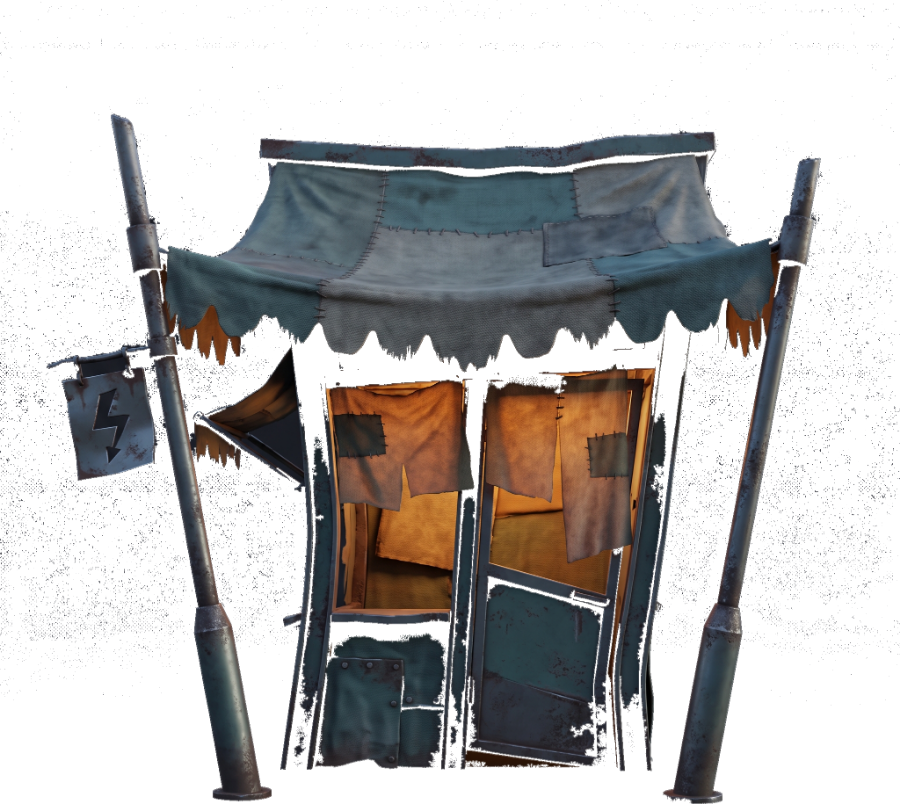
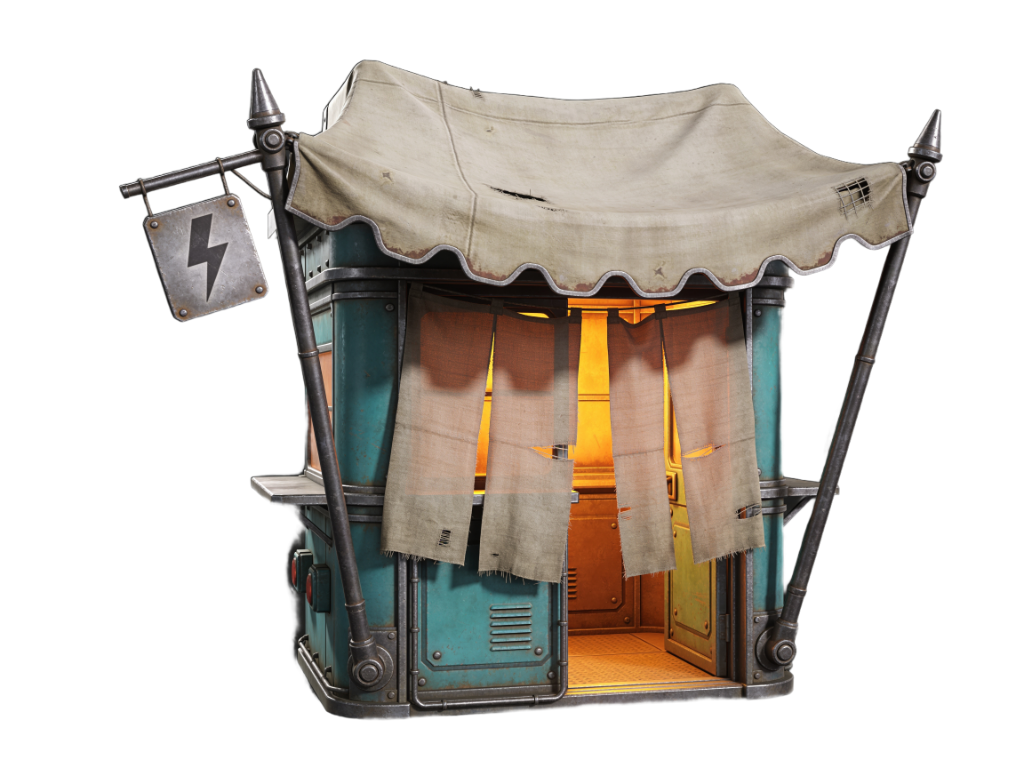
§2g: Ratchet wakes up powered down, and the booth gets the better plate
Two of the three §2g plates change hands. The third stays where it is, and
that is the more useful half of this commit.

RATCHETRESTING — the refused plate, re-fired properly. v1 failed because it
was generated from prose alone: "a boxy vendor robot" describes a robot, not
OUR robot, and what came back was a generic grey humanoid with POWERED DOWN
printed across the frame. The fix is the one the identity lock already
teaches — attach the character. His own row out of assets/characters/
npc_6yaw.png, upscaled and exposure-lifted so a model can actually see it,
goes in as reference media, and the figure that comes back is recognisably
the same vendor unit: the pot belly, the bone-and-tan plating, the strapped
canister rig over the shoulders, wide boots. Slumped, eye-lights dark, the
chest crystal the only light in the picture — his backstory made visible,
which is what the brief was for.

BOOTHFRONT — replaced at the same path, per the owner's quality ruling. Not
a duplicate: the re-fire beats the wired plate on material, on the canopy's
sag and hem, and on the read into the lit interior. Same filename, so
nothing needs re-plumbing.

DENINTERIOR — the code session's plate STANDS, and the art session's
competing fire is deliberately not shipped. It is the prettier picture and
the worse room: its foreground bench fills the lower right, exactly where
the player walks, while the wired plate keeps open floor across the middle.
[…]

diff --git a/index.html b/index.html
@@ -225,7 +225,7 @@
 })();
 </script>
 
-<script>window.BUILD_ID="msvinek6";window.GAME_LOCK="robo";window.MUS_FILES={"ambient_observing_the_star":"assets/music/ambient_observing_the_star.ogg","epic_combat":"assets/music/epic_combat.ogg","mus_alpha":"assets/music/mus_alpha.m4a","mus_alphatame":"assets/music/mus_alphatame.m4a","mus_archives":"assets/music/mus_archives.m4a","mus_boss":"assets/music/mus_boss.m4a","mus_cache":"assets/music/mus_cache.m4a","mus_conduits":"assets/music/mus_conduits.m4a","mus_ending":"assets/music/mus_ending.m4a","mus_eye":"assets/music/mus_eye.m4a","mus_foundry":"assets/music/mus_foundry.m4a","mus_furnace":"assets/music/mus_furnace.m4a","mus_glaciere":"assets/music/mus_glaciere.m4a","mus_intro":"assets/music/mus_intro.m4a","mus_meadows":"assets/music/mus_meadows.m4a","mus_mother":"assets/music/mus_mother.m4a","mus_nest":"assets/music/mus_nest.m4a","mus_nullfang":"assets/music/mus_nullfang.m4a","mus_prism":"assets/music/mus_prism.m4a","mus_talonhost":"assets/music/mus_talonhost.m4a","mus_title":"assets/music/mus_title.m4a"};window.VID_FILES={"end_atlas":"assets/video/end_atlas.mp4","end_brood":"assets/video/end_brood.mp4","end_close":"assets/video/end_close.mp4","end_folk":"assets/video/end_folk.mp4","end_glitch":"assets/video/end_glitch.mp4","end_mother":"assets/video/end_mother.mp4","end_open":"assets/video/end_open.mp4","end_prism":"assets/video/end_prism.mp4","end_zero":"assets/video/end_zero.mp4","intro1":"assets/video/intro1.mp4","intro2":"assets/video/intro2.mp4","intro3":"assets/video/intro3.mp4","intro4":"assets/video/intro4.mp4","intro5":"assets/video/intro5.mp4","intro6":"assets/video/intro6.mp4","intro7":"assets/video/intro7.mp4","intro8":"assets/video/intro8.mp4","purify_atlas":"assets/video/purify_atlas.mp4","purify_brood":"assets/video/purify_brood.mp4","purify_glitch":"assets/video/purify_glitch.mp4","purify_prism":"assets/video/purify_prism.mp4","purify_zero":"assets/video/purify_zero.mp4","sword_gift":"assets/video/sword_gift.mp4"};window.VID_ALT={"end_atlas":"assets/video/end_atlas.webm","end_brood":"assets/video/end_brood.webm","end_close":"assets/video/end_close.webm","end_folk":"assets/video/end_folk.webm","end_glitch":"assets/video/end_glitch.webm","end_mother":"assets/video/end_mother.webm","end_open":"assets/video/end_open.webm","end_prism":"assets/video/end_prism.webm","end_zero":"assets/video/end_zero.webm","intro1":"assets/video/intro1.webm","intro2":"assets/video/intro2.webm","intro3":"assets/video/intro3.webm","intro4":"assets/video/intro4.webm","intro5":"assets/video/intro5.webm","intro6":"assets/video/intro6.webm","intro7":"assets/video/intro7.webm","intro8":"assets/video/intro8.webm","purify_atlas":"assets/video/purify_atlas.webm","purify_brood":"assets/video/purify_brood.webm","purify_glitch":"assets/video/purify_glitch.webm","purify_prism":"assets/video/purify_prism.webm","purify_zero":"assets/video/purify_zero.webm","sword_gift":"assets/video/sword_gift.webm"};window.VID_LIGHT={
+<script>window.BUILD_ID="msvj8n6l";window.GAME_LOCK="robo";window.MUS_FILES={"ambient_observing_the_star":"assets/music/ambient_observing_the_star.ogg","epic_combat":"assets/music/epic_combat.ogg","mus_alpha":"assets/music/mus_alpha.m4a","mus_alphatame":"assets/music/mus_alphatame.m4a","mus_archives":"assets/music/mus_archives.m4a","mus_boss":"assets/music/mus_boss.m4a","mus_cache":"assets/music/mus_cache.m4a","mus_conduits":"assets/music/mus_conduits.m4a","mus_ending":"assets/music/mus_ending.m4a","mus_eye":"assets/music/mus_eye.m4a","mus_foundry":"assets/music/mus_foundry.m4a","mus_furnace":"assets/music/mus_furnace.m4a","mus_glaciere":"assets/music/mus_glaciere.m4a","mus_intro":"assets/music/mus_intro.m4a","mus_meadows":"assets/music/mus_meadows.m4a","mus_mother":"assets/music/mus_mother.m4a","mus_nest":"assets/music/mus_nest.m4a","mus_nullfang":"assets/music/mus_nullfang.m4a","mus_prism":"assets/music/mus_prism.m4a","mus_talonhost":"assets/music/mus_talonhost.m4a","mus_title":"assets/music/mus_title.m4a"};window.VID_FILES={"end_atlas":"assets/video/end_atlas.mp4","end_brood":"assets/video/end_brood.mp4","end_close":"assets/video/end_close.mp4","end_folk":"assets/video/end_folk.mp4","end_glitch":"assets/video/end_glitch.mp4","end_mother":"assets/video/end_mother.mp4","end_open":"assets/video/end_open.mp4","end_prism":"assets/video/end_prism.mp4","end_zero":"assets/video/end_zero.mp4","intro1":"assets/video/intro1.mp4","intro2":"assets/video/intro2.mp4","intro3":"assets/video/intro3.mp4","intro4":"assets/video/intro4.mp4","intro5":"assets/video/intro5.mp4","intro6":"assets/video/intro6.mp4","intro7":"assets/video/intro7.mp4","intro8":"assets/video/intro8.mp4","purify_atlas":"assets/video/purify_atlas.mp4","purify_brood":"assets/video/purify_brood.mp4","purify_glitch":"assets/video/purify_glitch.mp4","purify_prism":"assets/video/purify_prism.mp4","purify_zero":"assets/video/purify_zero.mp4","sword_gift":"assets/video/sword_gift.mp4"};window.VID_ALT={"end_atlas":"assets/video/end_atlas.webm","end_brood":"assets/video/end_brood.webm","end_close":"assets/video/end_close.webm","end_folk":"assets/video/end_folk.webm","end_glitch":"assets/video/end_glitch.webm","end_mother":"assets/video/end_mother.webm","end_open":"assets/video/end_open.webm","end_prism":"assets/video/end_prism.webm","end_zero":"assets/video/end_zero.webm","intro1":"assets/video/intro1.webm","intro2":"assets/video/intro2.webm","intro3":"assets/video/intro3.webm","intro4":"assets/video/intro4.webm","intro5":"assets/video/intro5.webm","intro6":"assets/video/intro6.webm","intro7":"assets/video/intro7.webm","intro8":"assets/video/intro8.webm","purify_atlas":"assets/video/purify_atlas.webm","purify_brood":"assets/video/purify_brood.webm","purify_glitch":"assets/video/purify_glitch.webm","purify_prism":"assets/video/purify_prism.webm","purify_zero":"assets/video/purify_zero.webm","sword_gift":"assets/video/sword_gift.webm"};window.VID_LIGHT={
  "end_atlas": "assets/video/light/end_atlas.mp4",
  "end_brood": "assets/video/light/end_brood.mp4",
  "end_close": "assets/video/light/end_close.mp4",

diff --git a/odyssey.html b/odyssey.html
@@ -225,7 +225,7 @@
 })();
 </script>
 
-<script>window.BUILD_ID="msvinek6";window.GAME_LOCK="hero";window.MUS_FILES={"ambient_observing_the_star":"assets/music/ambient_observing_the_star.ogg","epic_combat":"assets/music/epic_combat.ogg","mus_alpha":"assets/music/mus_alpha.m4a","mus_alphatame":"assets/music/mus_alphatame.m4a","mus_archives":"assets/music/mus_archives.m4a","mus_boss":"assets/music/mus_boss.m4a","mus_cache":"assets/music/mus_cache.m4a","mus_conduits":"assets/music/mus_conduits.m4a","mus_ending":"assets/music/mus_ending.m4a","mus_eye":"assets/music/mus_eye.m4a","mus_foundry":"assets/music/mus_foundry.m4a","mus_furnace":"assets/music/mus_furnace.m4a","mus_glaciere":"assets/music/mus_glaciere.m4a","mus_intro":"assets/music/mus_intro.m4a","mus_meadows":"assets/music/mus_meadows.m4a","mus_mother":"assets/music/mus_mother.m4a","mus_nest":"assets/music/mus_nest.m4a","mus_nullfang":"assets/music/mus_nullfang.m4a","mus_prism":"assets/music/mus_prism.m4a","mus_talonhost":"assets/music/mus_talonhost.m4a","mus_title":"assets/music/mus_title.m4a"};window.VID_FILES={"end_atlas":"assets/video/end_atlas.mp4","end_brood":"assets/video/end_brood.mp4","end_close":"assets/video/end_close.mp4","end_folk":"assets/video/end_folk.mp4","end_glitch":"assets/video/end_glitch.mp4","end_mother":"assets/video/end_mother.mp4","end_open":"assets/video/end_open.mp4","end_prism":"assets/video/end_prism.mp4","end_zero":"assets/video/end_zero.mp4","intro1":"assets/video/intro1.mp4","intro2":"assets/video/intro2.mp4","intro3":"assets/video/intro3.mp4","intro4":"assets/video/intro4.mp4","intro5":"assets/video/intro5.mp4","intro6":"assets/video/intro6.mp4","intro7":"assets/video/intro7.mp4","intro8":"assets/video/intro8.mp4","purify_atlas":"assets/video/purify_atlas.mp4","purify_brood":"assets/video/purify_brood.mp4","purify_glitch":"assets/video/purify_glitch.mp4","purify_prism":"assets/video/purify_prism.mp4","purify_zero":"assets/video/purify_zero.mp4","sword_gift":"assets/video/sword_gift.mp4"};window.VID_ALT={"end_atlas":"assets/video/end_atlas.webm","end_brood":"assets/video/end_brood.webm","end_close":"assets/video/end_close.webm","end_folk":"assets/video/end_folk.webm","end_glitch":"assets/video/end_glitch.webm","end_mother":"assets/video/end_mother.webm","end_open":"assets/video/end_open.webm","end_prism":"assets/video/end_prism.webm","end_zero":"assets/video/end_zero.webm","intro1":"assets/video/intro1.webm","intro2":"assets/video/intro2.webm","intro3":"assets/video/intro3.webm","intro4":"assets/video/intro4.webm","intro5":"assets/video/intro5.webm","intro6":"assets/video/intro6.webm","intro7":"assets/video/intro7.webm","intro8":"assets/video/intro8.webm","purify_atlas":"assets/video/purify_atlas.webm","purify_brood":"assets/video/purify_brood.webm","purify_glitch":"assets/video/purify_glitch.webm","purify_prism":"assets/video/purify_prism.webm","purify_zero":"assets/video/purify_zero.webm","sword_gift":"assets/video/sword_gift.webm"};window.VID_LIGHT={
+<script>window.BUILD_ID="msvj8n6l";window.GAME_LOCK="hero";window.MUS_FILES={"ambient_observing_the_star":"assets/music/ambient_observing_the_star.ogg","epic_combat":"assets/music/epic_combat.ogg","mus_alpha":"assets/music/mus_alpha.m4a","mus_alphatame":"assets/music/mus_alphatame.m4a","mus_archives":"assets/music/mus_archives.m4a","mus_boss":"assets/music/mus_boss.m4a","mus_cache":"assets/music/mus_cache.m4a","mus_conduits":"assets/music/mus_conduits.m4a","mus_ending":"assets/music/mus_ending.m4a","mus_eye":"assets/music/mus_eye.m4a","mus_foundry":"assets/music/mus_foundry.m4a","mus_furnace":"assets/music/mus_furnace.m4a","mus_glaciere":"assets/music/mus_glaciere.m4a","mus_intro":"assets/music/mus_intro.m4a","mus_meadows":"assets/music/mus_meadows.m4a","mus_mother":"assets/music/mus_mother.m4a","mus_nest":"assets/music/mus_nest.m4a","mus_nullfang":"assets/music/mus_nullfang.m4a","mus_prism":"assets/music/mus_prism.m4a","mus_talonhost":"assets/music/mus_talonhost.m4a","mus_title":"assets/music/mus_title.m4a"};window.VID_FILES={"end_atlas":"assets/video/end_atlas.mp4","end_brood":"assets/video/end_brood.mp4","end_close":"assets/video/end_close.mp4","end_folk":"assets/video/end_folk.mp4","end_glitch":"assets/video/end_glitch.mp4","end_mother":"assets/video/end_mother.mp4","end_open":"assets/video/end_open.mp4","end_prism":"assets/video/end_prism.mp4","end_zero":"assets/video/end_zero.mp4","intro1":"assets/video/intro1.mp4","intro2":"assets/video/intro2.mp4","intro3":"assets/video/intro3.mp4","intro4":"assets/video/intro4.mp4","intro5":"assets/video/intro5.mp4","intro6":"assets/video/intro6.mp4","intro7":"assets/video/intro7.mp4","intro8":"assets/video/intro8.mp4","purify_atlas":"assets/video/purify_atlas.mp4","purify_brood":"assets/video/purify_brood.mp4","purify_glitch":"assets/video/purify_glitch.mp4","purify_prism":"assets/video/purify_prism.mp4","purify_zero":"assets/video/purify_zero.mp4","sword_gift":"assets/video/sword_gift.mp4"};window.VID_ALT={"end_atlas":"assets/video/end_atlas.webm","end_brood":"assets/video/end_brood.webm","end_close":"assets/video/end_close.webm","end_folk":"assets/video/end_folk.webm","end_glitch":"assets/video/end_glitch.webm","end_mother":"assets/video/end_mother.webm","end_open":"assets/video/end_open.webm","end_prism":"assets/video/end_prism.webm","end_zero":"assets/video/end_zero.webm","intro1":"assets/video/intro1.webm","intro2":"assets/video/intro2.webm","intro3":"assets/video/intro3.webm","intro4":"assets/video/intro4.webm","intro5":"assets/video/intro5.webm","intro6":"assets/video/intro6.webm","intro7":"assets/video/intro7.webm","intro8":"assets/video/intro8.webm","purify_atlas":"assets/video/purify_atlas.webm","purify_brood":"assets/video/purify_brood.webm","purify_glitch":"assets/video/purify_glitch.webm","purify_prism":"assets/video/purify_prism.webm","purify_zero":"assets/video/purify_zero.webm","sword_gift":"assets/video/sword_gift.webm"};window.VID_LIGHT={
  "end_atlas": "assets/video/light/end_atlas.mp4",
  "end_brood": "assets/video/light/end_brood.mp4",
  "end_close": "assets/video/light/end_close.mp4",

diff --git a/docs/ART_QUEUE.md b/docs/ART_QUEUE.md
@@ -347,21 +347,41 @@ the plate replaces it at the same anchor.
 ### 2g. THE TRADER'S BOOTH + DEN — PARTIALLY FIRED 2026-08-16, READ BEFORE FIRING
 
 **STATUS (2026-08-16, code session — do not double-fire):**
-- **boothFront — FIRED + OWNER-APPROVED + WIRED** (job d469ad29, keyed to
-  `assets/backgrounds/booth_front.png`, source archived). The owner's
-  standing quality ruling: the ART SESSION's work is better — it MAY
-  re-fire this to beat the current plate (owner judges); same file path
-  swaps it in with zero re-plumbing. Don't re-fire merely to duplicate.
-- **denInterior — FIRED + OWNER-APPROVED + WIRED** (job 3bd98cc3, crushed
-  to `assets/backgrounds/den_interior.jpg`, source archived). Same ruling:
-  an art-session upgrade at the same path is welcome, duplication is not.
-- **ratchetResting — FIRED AND REFUSED** (job f026eef7: not our Ratchet — a
-  generic humanoid — and it ignored "subject only", baking in a background).
-  **THE RE-FIRE IS THE ART SESSION'S**: attach Ratchet's in-game reference
-  (his cells in `assets/characters/npc_6yaw.png`, or assets/source if a
-  cleaner ref exists) as reference media so the resting figure is
-  recognisably the SAME vendor unit, keep the chest-crystal beat, dark
-  unlit room, subject only. Owner reviews before keying.
+- **boothFront — REPLACED BY THE ART SESSION 2026-08-16** (job b983ed7a).
+  The code session's plate (d469ad29) keyed cleanly but the art session's
+  re-fire beats it on material, canopy and interior read, so it took over
+  `assets/backgrounds/booth_front.png` — same path, zero re-plumbing, as
+  the owner's quality ruling allows. Fired-as-is archived at
+  `assets/source/booth/booth_front_artsession_asfired.jpg`.
+- **denInterior — THE CODE SESSION'S PLATE STANDS** (job 3bd98cc3). The
+  art session fired a competing interior and judged it WORSE for the room
+  and did not ship it: its foreground bench fills the lower right, which
+  is exactly where the player walks, while the wired plate keeps open
+  floor across the middle. A prettier picture that eats the play plane is
+  not an upgrade. Not re-fired again.
+- **ratchetResting — RE-FIRED AND SHIPPED 2026-08-16** (job 6b2a7128).
+  Fired against Ratchet's own atlas row as reference media, so the
+  resting figure is recognisably the same vendor unit: pot belly, bone
+  plating, the strapped canister rig, eye-lights dark, chest crystal the
+  only light. Keyed to `assets/characters/npc/ratchet_resting.png`,
+  sources + the reference strip in `assets/source/ratchet/`.
+  **NEEDS WIRING** — add `ratchetResting:
+  'assets/characters/npc/ratchet_resting.png'` to js/media.js and draw it
+  at the A0B npc anchor until the waking, then the standing atlas takes
+  over. Generation is the art session's; wiring is the code session's.
+
+**KEYING NOTE, learned on both plates (2026-08-16).** `tools/blackkey.cjs`
+failed on both and for the same reason twice: it decides by luminance, and
+these plates have dark subject against dark field. Ratchet's shadowed far
+leg keyed as background and came back full of holes; the booth's render
+carried a soft glow in one corner that survived every threshold that did
+not also eat the teal panels. Raising the threshold ate the subject,
+lowering it kept the field — there is no threshold that works, so stop
+sweeping for one. **What worked was Higgsfield's own matting pass
+(`remove_background` on the generation job id), which reads the subject
+rather than the exposure.** Both shipped plates are matted, not keyed. Use
+it first on any plate whose subject has genuinely dark regions; blackkey
+stays right for bright subjects on clean black.
 
 The code session fired the first three before this ledger entry existed —
 that mistake is why this block leads the section now. Generation belongs

diff --git a/assets/CREDITS.md b/assets/CREDITS.md
@@ -52,6 +52,35 @@ Larger CC0 tracks reviewed but not stored in the repo (download if wanted):
 | hit_*.ogg, shot_*.ogg, metal_*.ogg, glass_*.ogg, explosion.ogg | rubberduck | https://opengameart.org/content/100-cc0-sfx |
 | laser*.mp3, powerUp*.mp3, zapTwoTone.mp3, phaserUp3.mp3, lowDown.mp3 | Kenney (kenney.nl) | https://opengameart.org/content/63-digital-sound-effects-lasers-phasers-space-etc |
 
+## Generated art — declared, per Steam's disclosure requirement
+
+Everything in this section was **generated with Higgsfield** (image models,
+the model named per entry in `docs/ART_QUEUE.md`) and then keyed, crushed and
+composited by the tools in `tools/`. It is original to this project: no entry
+is derived from, traced over, or trained on a specific copyrighted published
+artwork, and no scans of third-party art exist in this repo. Steam requires AI
+generation to be disclosed at store-page level — `docs/STEAM.md` carries that
+plan, and this table is the source it draws from.
+
+The as-fired originals live in `assets/source/<subject>/`, so every shipped
+plate can be traced back to the generation it came from.
+
+| Files | Generated | Notes |
+|---|---|---|
+| `backgrounds/booth_front.png` | Higgsfield, Seedream 4.5 | Ratchet's kiosk (ART_QUEUE §2g); matted with Higgsfield `remove_background` |
+| `backgrounds/den_interior.jpg` | Higgsfield | the A0B workshop backdrop (§2g) |
+| `characters/npc/ratchet_resting.png` | Higgsfield, Seedream 4.5 | Ratchet powered down (§2g); fired against his own atlas row as reference |
+| `characters/hero/*`, `characters/hzd_8yaw*.png` | Higgsfield | HZD-99's body and turnarounds (§1), all pinned to the canon reference element |
+| `characters/npc_6yaw.png`, `characters/roster_8yaw.png` | Higgsfield | the NPC and creature turnaround sheets |
+| `characters/beasts/*`, `characters/flora/*`, `characters/gear/*` | Higgsfield | the animal line, the flora deck, the equipment plates |
+| `backgrounds/ceil_*.jpg`, `backgrounds/lair_*.png`, `backgrounds/gate_city.jpg` | Higgsfield | ceiling tiers, guardian lairs, the city gate monument |
+| boss parts atlases (per-guardian) | Higgsfield | restyled through `tools/bossparts.cjs`; see ART_BIBLE.md §3 |
+| `video/*.mp4` | Higgsfield | the intro films and cinematics |
+
+**Rule for adding to this table:** a generated asset is not finished until it
+has a line here and its as-fired original is in `assets/source/`, both in the
+same commit as the asset itself.
+
 ## Integration notes
 
 - The playable single-file build (`play.html`) still uses the procedural
